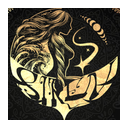
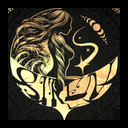
feat(en.sirenscans): read novels
The type filter offers the site's novels again, which needs app 0.8.3 for their text, and the icon is redrawn from the site's favicon on an opaque canvas.

Changed region(s): [[0.0, 0.0, 1.0, 1.0]]

diff --git a/sources/en.sirenscans/src/test.rs b/sources/en.sirenscans/src/test.rs
@@ -137,11 +137,12 @@ fn review_home_keeps_the_site_rows() {
 		.iter()
 		.filter_map(|component| component.title.as_deref())
 		.collect();
-	// In the site's order, without the novels row or the repeated Editor's Choice
+	// In the site's order, novels included, without the repeated Editor's Choice
 	assert_eq!(
 		titles,
 		[
 			"Featured Series",
+			"Novels",
 			"Recently Updated",
 			"Editor's Choice",
 			"Newly Added Series"
@@ -151,9 +152,7 @@ fn review_home_keeps_the_site_rows() {
 		match &component.value {
 			HomeComponentValue::Scroller { entries, .. } => {
 				assert!(!entries.is_empty());
-				// Cards carry no subtitle, and novels are left out
 				assert!(entries.iter().all(|link| link.subtitle.is_none()));
-				assert!(entries.iter().all(|link| !link.title.contains("Novel")));
 			}
 			HomeComponentValue::MangaChapterList {
 				page_size, entries, ..
@@ -172,8 +171,8 @@ fn review_home_keeps_the_site_rows() {
 	let HomeComponentValue::Scroller { entries, .. } = &home.components[0].value else {
 		panic!("featured series is a scroller");
 	};
-	assert_eq!(entries.len(), 1);
-	assert_eq!(entries[0].title, "First Series");
+	let titles: Vec<&str> = entries.iter().map(|link| link.title.as_str()).collect();
+	assert_eq!(titles, ["First Series", "[ Novel ] Novel One"]);
 }
 
 #[aidoku_test]
@@ -292,7 +291,6 @@ fn home_follows_the_site() {
 		.filter_map(|component| component.title.as_deref())
 		.collect();
 	assert!(titles.contains(&"Featured Series"), "{titles:?}");
-	assert!(!titles.contains(&"Novels"));
 	let mut unique = titles.clone();
 	unique.sort_unstable();
 	unique.dedup();
@@ -359,4 +357,37 @@ fn an_unknown_series_fails() {
 		..Default::default()
 	};
 	assert!(source().get_manga_update(manga, true, true).is_err());
+}
+
+#[aidoku_test]
+fn novel_chapters_are_image_strips() {
+	let (manga, chapter) = search(None, vec![select("type", "novel")])
+		.entries
+		.into_iter()
+		.find_map(|manga| {
+			let chapter = source()
+				.get_manga_update(manga.clone(), false, true)
+				.unwrap()
+				.chapters?
+				.pop()?;
+			Some((manga, chapter))
+		})
+		.unwrap();
+	assert_eq!(details(manga.clone()).viewer, Viewer::Webtoon);
+	let pages = source()
+		.get_page_list(
+			Manga {
+				key: manga.key,
+				..Default::default()
+			},
+			Chapter {
+				key: chapter.key,
+				..Default::default()
+			},
+		)
+		.unwrap();
+	assert!(!pages.is_empty());
+	assert!(pages.iter().all(
+		|page| matches!(&page.content, PageContent::Url(url, _) if url.starts_with("https://"))
+	));
 }
